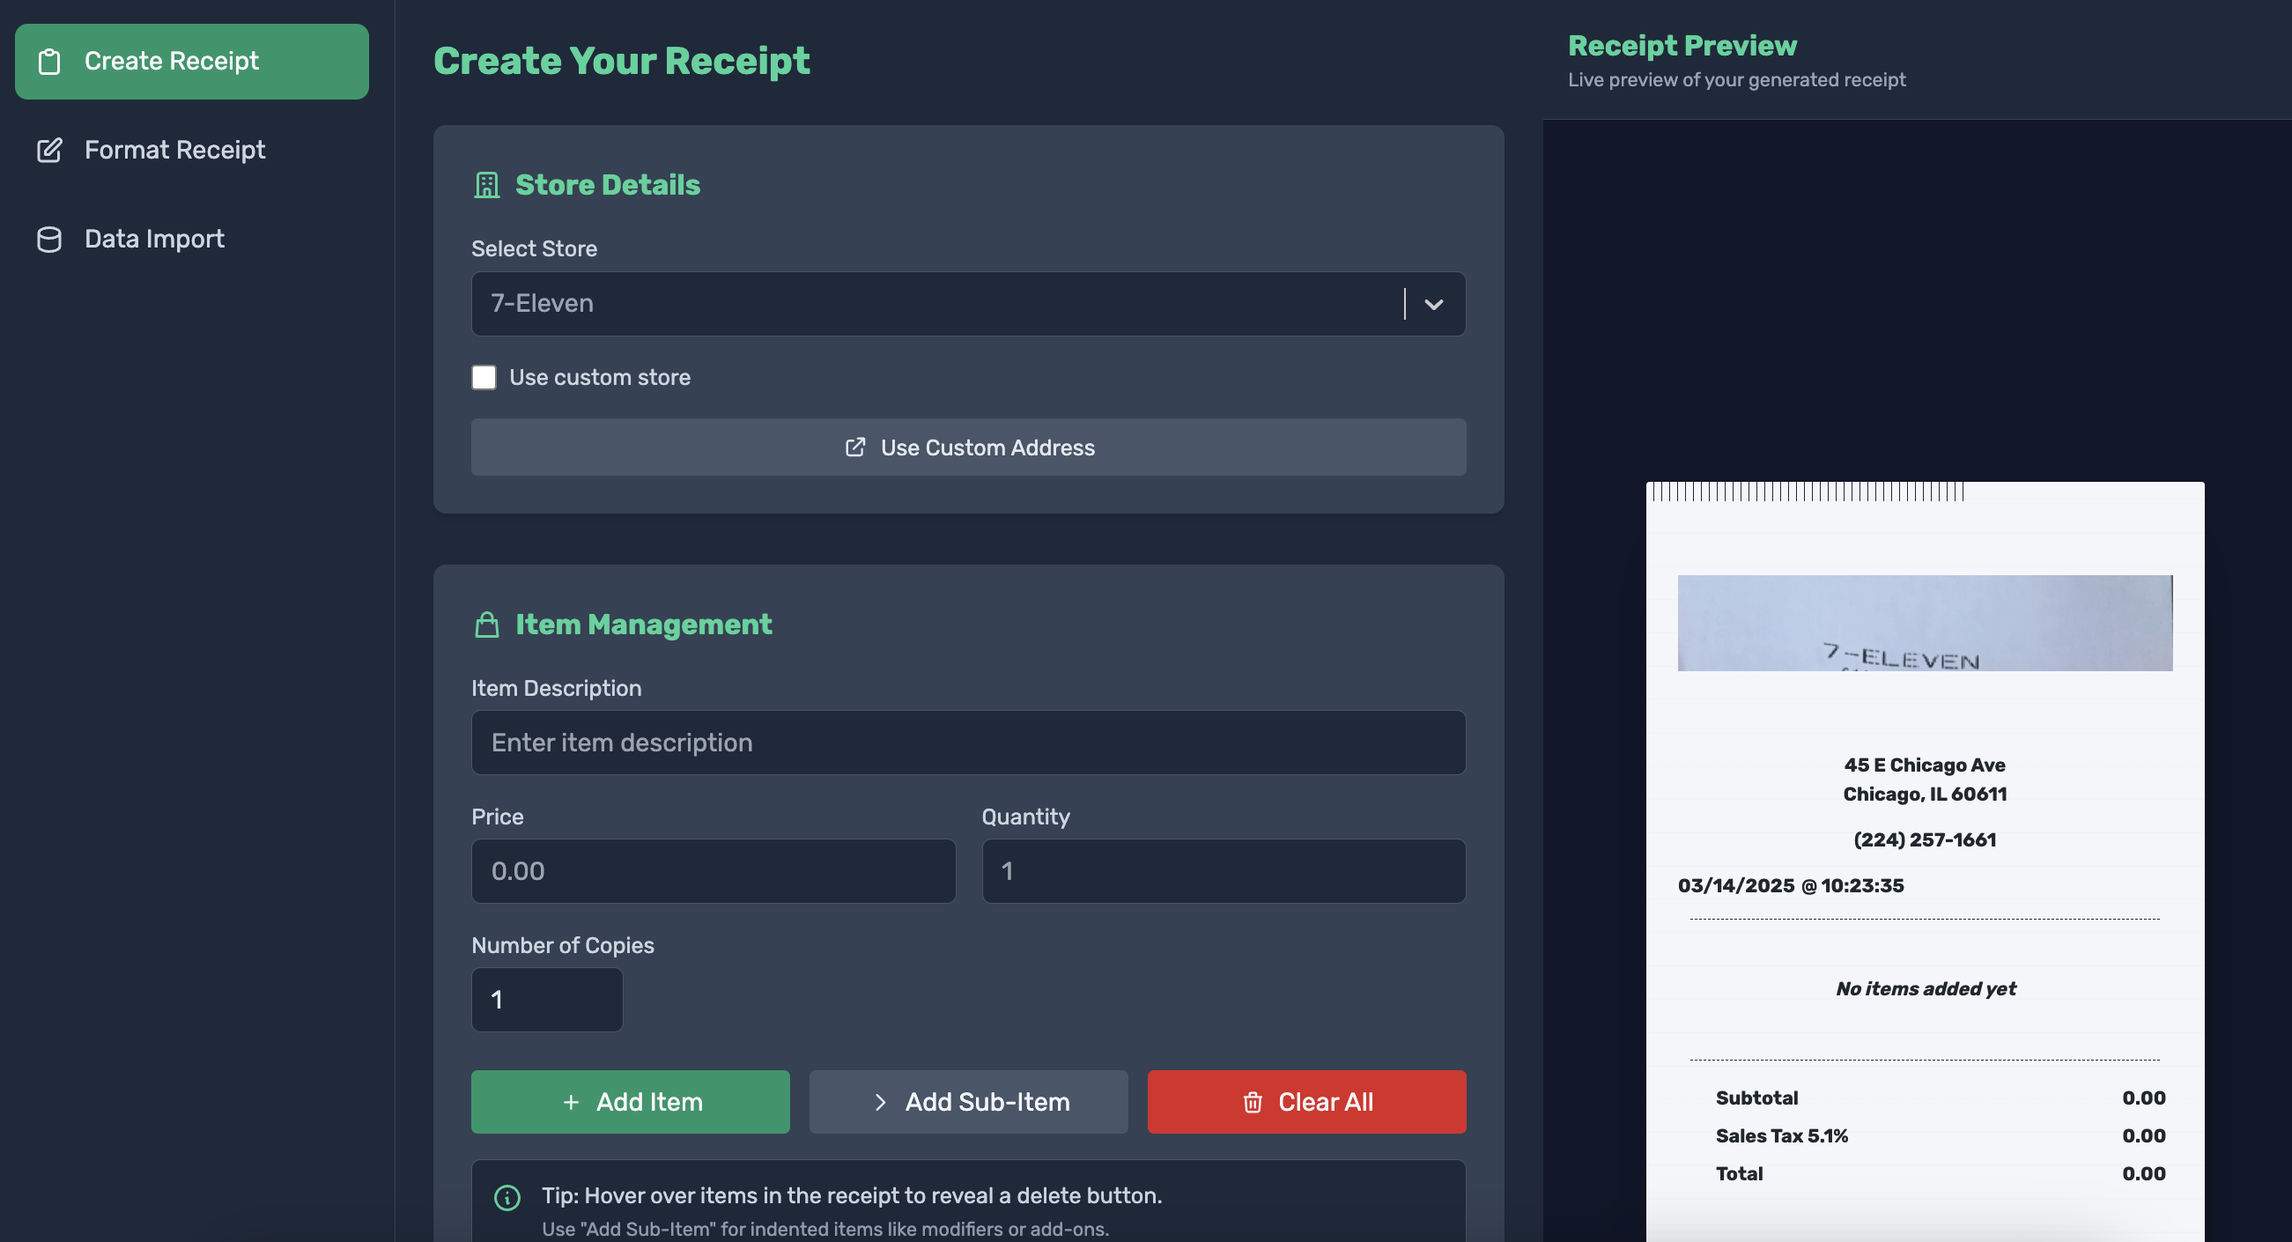
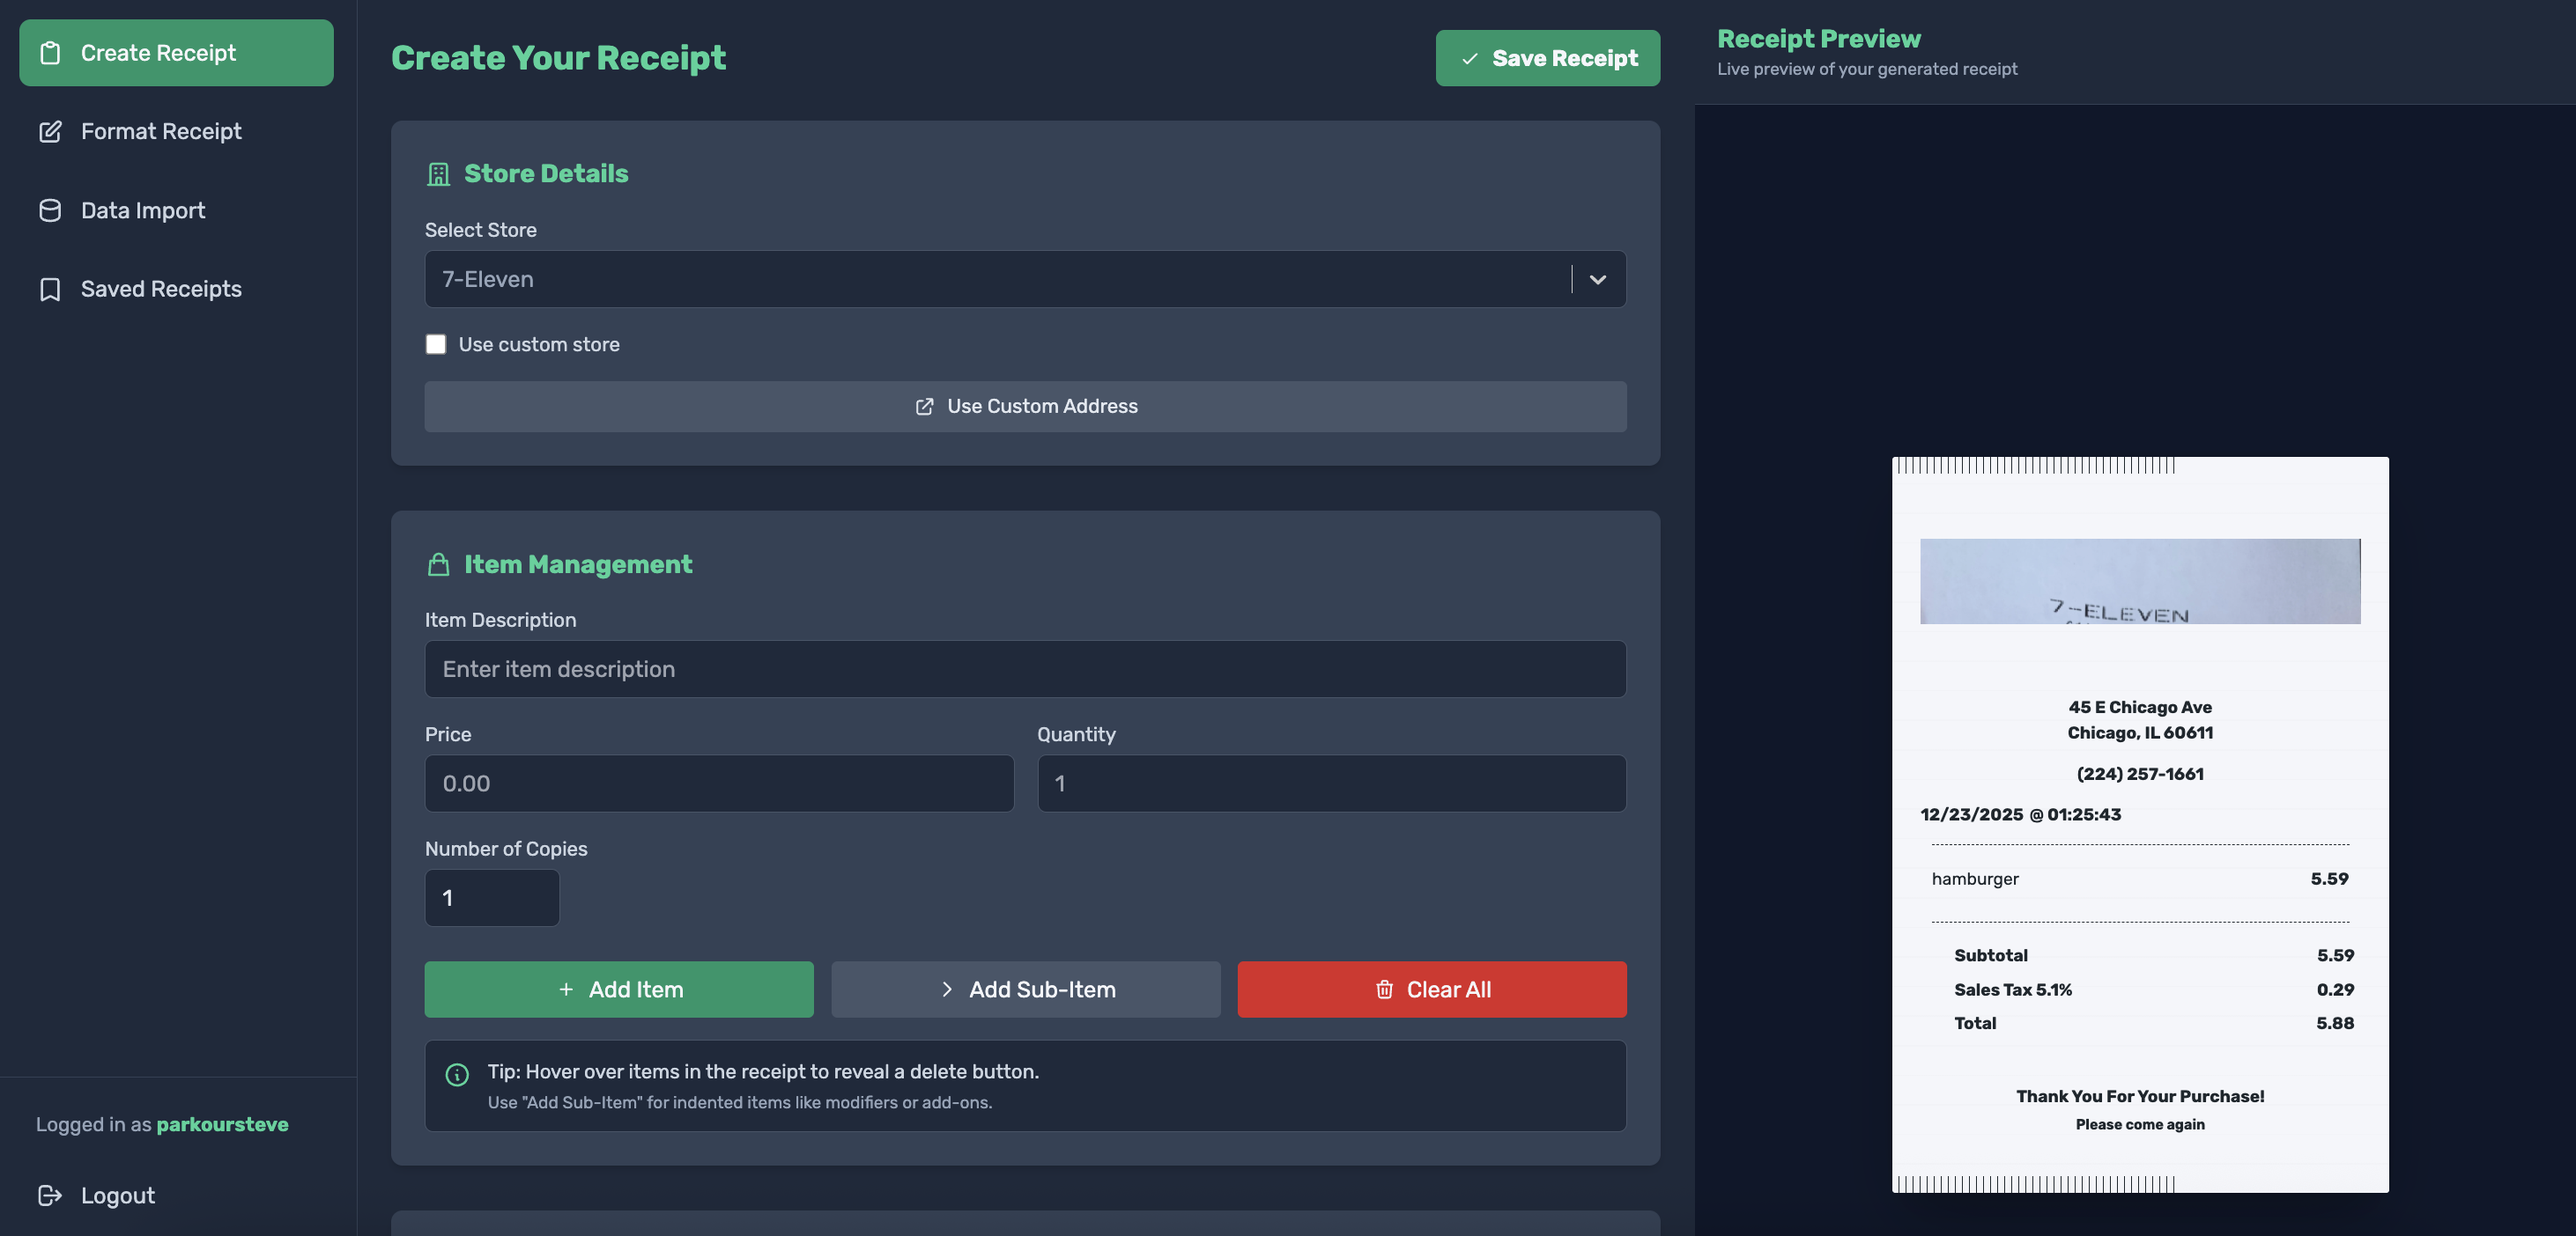
Update project images

diff --git a/src/content/projects/project-1.md b/src/content/projects/project-1.md
@@ -42,6 +42,8 @@ This tool eliminates all of that by generating realistic receipt images programm
 
 ### Key Features
 
+![Saved receipts](/saved-receipts.png)
+
 - **Custom Receipt Creation**: Generate receipts with customizable store names, dates, items, prices, and totals
 - **Granular Data Management**: Configure the receipt to have exacly the purchased items and metadata you want for your test
 - **Visual Effects**: Add realistic imperfections like blurring and missing information (e.g., store name, purchase date) to simulate camera-captured receipts
@@ -52,7 +54,7 @@ This tool eliminates all of that by generating realistic receipt images programm
 
 ### Inspiration - The Original Use Case
 
-At Fetch Rewards (now called Fetch), I developed a similar tool for the QA team to help us test the Fetch app. Fetch is a shopping rewards app that gives users points for uploading receipts, with bonus points for certain products owned by the CPGs Fetch partners with.
+At Fetch Rewards (now called [Fetch](https://fetch.com/)), I developed a similar tool for the QA team to help us test the Fetch app. Fetch is a shopping rewards app that gives users points for uploading receipts, with bonus points for certain products owned by the CPGs Fetch partners with.
 
 In order to ensure the app handled the receipt data appropriately, we would need to test a variety of store name/store address/total price/purchase date scenarios, including receipts from different verticals, regions, countries, etc. We'd need to check that items worth bonus points received those extra points, and that we didn't see users getting more or less points than they earned. We'd also need to test how the app handled users who captured blurry images.
 
@@ -158,6 +160,8 @@ await sh.act("Set item description to 'Toothpaste'");
 ```
 
 ### Custom Slack Test Reporter
+
+![Playwright Slack reporter](/slack-reporter.png)
 
 **Enterprise-Grade Reporting:**
 Built custom Playwright reporter with Redis-backed state management.
